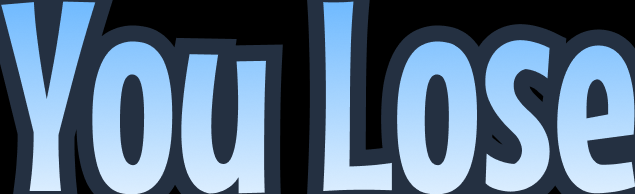
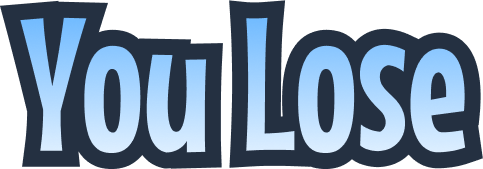
finished dialog

diff --git a/src/components/Dialog/index.tsx b/src/components/Dialog/index.tsx
@@ -1,13 +1,37 @@
 import React from 'react';
 import BoxContainer from '../common/BoxContainer'; // Adjust the path as necessary
 import Button from '../common/Button';
+import Modal from 'react-modal';
 import './Dialog.scss';
 
 interface DialogProps {
-  title: React.ReactNode;
+  isOpen: boolean;
+  onRequestClose: () => void;
+  titleText?: 'You Win' | 'You Lose' | 'Paused';
 }
 
-const Dialog: React.FC<DialogProps> = ({ title }) => {
+Modal.setAppElement('#root');
+
+const customStyles = {
+  content: {
+    top: '50%',
+    left: '50%',
+    right: 'auto',
+    bottom: 'auto',
+    padding: '2rem',
+    transform: 'translate(-50%, -50%)',
+    border: 'none', // Remove default borders
+    background: 'transparent', // Use BoxContainer for background
+    overflow: 'visible', // Prevent BoxContainer from being clipped,
+    width: '100%',
+    maxWidth: '59rem',
+  },
+  overlay: {
+    background: 'linear-gradient(180deg, rgba(26, 4, 58, 0.75) 0%, rgba(21, 18, 120, 0.75) 70.31%, rgba(43, 22, 119, 0.75) 100%)',
+  },
+};
+
+const Dialog: React.FC<DialogProps> = ({ titleText, isOpen, onRequestClose }) => {
   // Handler functions
   const onContinueClick = () => {
     /* ... */
@@ -20,19 +44,21 @@ const Dialog: React.FC<DialogProps> = ({ title }) => {
   };
 
   return (
-    <div className='dialog-backdrop'>
-      <BoxContainer title={title}>
-        <Button theme='blue' onClick={onContinueClick}>
-          Continue
-        </Button>
-        <Button theme='blue' onClick={onNewCategoryClick}>
-          New Category
-        </Button>
-        <Button theme='pink' onClick={onQuitClick}>
-          Quit Game
-        </Button>
+    <Modal isOpen={isOpen} onRequestClose={onRequestClose} style={customStyles} shouldCloseOnOverlayClick={false} contentLabel='Example Modal'>
+      <BoxContainer titleText={titleText}>
+        <div className='buttons'>
+          <Button theme='blue' onClick={onContinueClick}>
+            Continue
+          </Button>
+          <Button theme='blue' onClick={onNewCategoryClick}>
+            New Category
+          </Button>
+          <Button theme='pink' onClick={onQuitClick}>
+            Quit Game
+          </Button>
+        </div>
       </BoxContainer>
-    </div>
+    </Modal>
   );
 };
 

diff --git a/src/components/common/BoxContainer/index.tsx b/src/components/common/BoxContainer/index.tsx
@@ -1,14 +1,27 @@
 import React from 'react';
 import './BoxContainer.scss';
+import logo from '../../../assets/images/logo.svg';
+import win from '../../../assets/images/win.png';
+import lose from '../../../assets/images/lose.png';
+import paused from '../../../assets/images/paused.png';
 
 interface BoxContainerProps {
-  title: React.ReactNode;
   children: React.ReactNode;
+  titleText?: 'You Win' | 'You Lose' | 'Paused';
 }
 
-const BoxContainer: React.FC<BoxContainerProps> = ({ title, children }) => {
+const BoxContainer: React.FC<BoxContainerProps> = ({ children, titleText }) => {
   const renderTitle = () => {
-    return <div className='box-title'>{title}</div>;
+    let elm: React.ReactNode = <img src={logo} alt='The Hangman Game' />;
+
+    if (titleText === 'You Win') {
+      elm = <img src={win} alt='title' />;
+    } else if (titleText === 'You Lose') {
+      elm = <img src={lose} alt='title' />;
+    } else if (titleText === 'Paused') {
+      elm = <img src={paused} alt='title' />;
+    }
+    return <div className='box-title'>{elm}</div>;
   };
 
   return (

diff --git a/src/App.tsx b/src/App.tsx
@@ -2,13 +2,11 @@ import React, { useState } from 'react';
 import StartScreen from './components/StartScreen/'; // Adjust the import path as necessary
 import './App.scss'; // Assuming you have global styles defined in App.scss
 import Dialog from './components/Dialog';
-import win from './assets/images/win.png';
 
 const App: React.FC = () => {
-  const [showDialog, setShowDialog] = useState(true);
+  const [showDialog, setShowDialog] = useState(false);
   const handleStartClick = () => {
-    // Logic to start the game or navigate to the game component
-    console.log('Start game clicked');
+    setShowDialog(true);
   };
 
   const handleHowToPlayClick = () => {
@@ -18,7 +16,7 @@ const App: React.FC = () => {
 
   return (
     <div className='app'>
-      {showDialog && <Dialog title={win} />}
+      {showDialog && <Dialog titleText='You Lose' isOpen={showDialog} onRequestClose={() => setShowDialog(false)} />}
       <StartScreen onStartClick={handleStartClick} onHowToPlayClick={handleHowToPlayClick} />
     </div>
   );

diff --git a/src/components/StartScreen/index.tsx b/src/components/StartScreen/index.tsx
@@ -1,7 +1,6 @@
 import React from 'react';
 import BoxContainer from '../common/BoxContainer'; // Adjust the path as necessary
 import './StartScreen.scss'; // Import the SCSS stylesheet
-import logo from '../../assets/images/logo.svg';
 import playIcon from '../../assets/images/icon-play.svg';
 import Button from '../common/Button';
 
@@ -13,7 +12,7 @@ interface StartScreenProps {
 const StartScreen: React.FC<StartScreenProps> = ({ onStartClick, onHowToPlayClick }) => {
   return (
     <div className='containerStartScreen'>
-      <BoxContainer title={<img src={logo} alt='The Hangman Game' />}>
+      <BoxContainer>
         <button type='button' className='start-button' onClick={onStartClick}>
           <img src={playIcon} alt='Play Icon' />
         </button>

diff --git a/src/components/common/BoxContainer/BoxContainer.scss b/src/components/common/BoxContainer/BoxContainer.scss
@@ -3,7 +3,6 @@
   background: linear-gradient(180deg, #344aba 0%, rgba(0, 20, 121, 0.83) 100%);
   box-shadow: inset 0px -8px 0px 4px #140e66, inset 0px 6px 0px 8px #2463ff;
   border-radius: 6.2rem;
-  padding: 2rem;
   display: flex;
   flex-direction: column;
   align-items: center;
@@ -17,11 +16,6 @@
   width: 80%;
   font-size: 2rem; /* Example size, adjust as needed */
   color: #ffffff;
-  margin-bottom: 2rem;
-  background: linear-gradient(180deg, #67b6ff 16.42%, #ffffff 100%);
-  -webkit-background-clip: text;
-  -webkit-text-fill-color: transparent;
-  background-clip: text;
 
   > img {
     width: 100%;

diff --git a/src/App.scss b/src/App.scss
@@ -6,3 +6,15 @@
   padding: 8rem 2rem 4rem;
   box-sizing: border-box;
 }
+
+.dialog {
+  font-family: 'MouseMemoirs-Regular', sans-serif;
+  font-style: normal;
+  font-weight: 400;
+  font-size: 134px;
+  line-height: 120%;
+  /* identical to box height, or 161px */
+  text-align: center;
+  letter-spacing: -0.005em;
+  background: linear-gradient(180deg, #67b6ff 16.42%, #ffffff 100%);
+}

diff --git a/src/components/Dialog/Dialog.scss b/src/components/Dialog/Dialog.scss
@@ -1,12 +1,7 @@
-.dialog-backdrop {
-  position: fixed; // Fix the position relative to the viewport
-  top: 0;
-  left: 0;
-  width: 100vw;
-  height: 100vh;
+.buttons {
   display: flex;
-  justify-content: center;
+  flex-direction: column;
+  padding: 12rem 2.5rem 7rem;
+  gap: 3rem;
   align-items: center;
-  background-color: rgba(0, 0, 0, 0.75);
-  z-index: 1000;
 }

diff --git a/src/components/StartScreen/StartScreen.scss b/src/components/StartScreen/StartScreen.scss
@@ -57,7 +57,7 @@
   border-radius: 50%;
   border: none;
   cursor: pointer;
-  margin: 13rem 8.2rem 0;
+  margin-top: 13rem;
   padding: 6rem;
   display: flex;
   align-items: center;
